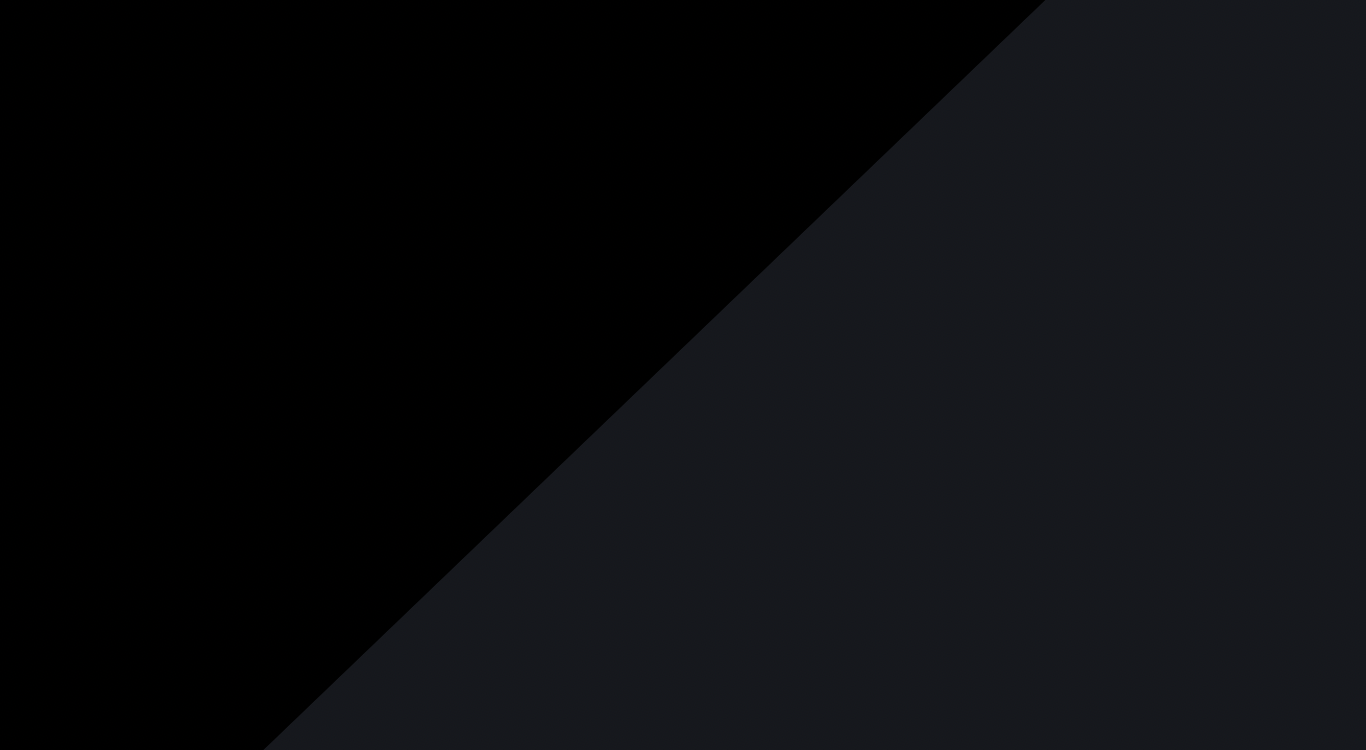
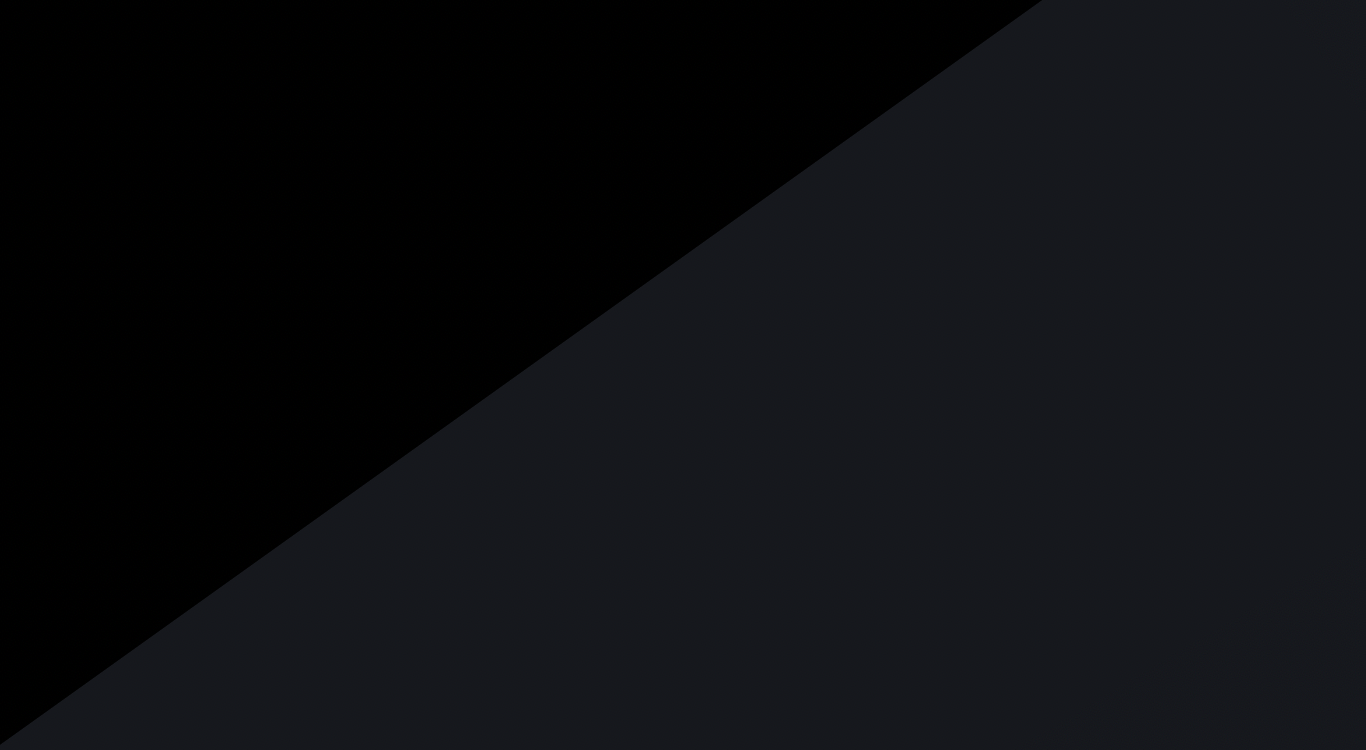
feat: footer ended

Changed region(s): [[0.0, 0.0307, 0.7379, 1.0], [0.7379, 0.0, 0.7687, 0.0307]]

diff --git a/styles/footer.css b/styles/footer.css
@@ -1,0 +1,97 @@
+footer {
+  background-color: var(--gray-500);
+  padding-bottom: 200px;
+
+  header {
+    padding-block: 128px 48px;
+
+    display: grid;
+    justify-items: center;
+
+    span {
+      font: var(--subtitle);
+      color: var(--blue);
+    }
+
+    h2 {
+      font: var(--title-md);
+      color: var(--gray-100);
+      padding-block: 8px;
+    }
+
+    p {
+      font: var(--text-md);
+    }
+  }
+
+  #contacts {
+    display: grid;
+    justify-content: center;
+    gap: 20px;
+
+    .contact-card {
+      display: flex;
+      align-items: center;
+      padding-inline: 20px;
+      gap: 12px;
+      background-color: var(--gray-400);
+      border-radius: 12px;
+      width: 400px;
+      height: 68px;
+      box-sizing: border-box;
+
+      #linkdin {
+        background-image: url('../assets/icons/LinkedinLogo.svg');
+        width: 28px;
+        height: 28px;
+      }
+
+      #github {
+        background-image: url('../assets/icons/GithubLogo.svg');
+        width: 28px;
+        height: 28px;
+      }
+
+      #mail {
+        background-image: url('../assets/icons/MailIcon.svg');
+        width: 28px;
+        height: 28px;
+      }
+
+      span {
+        margin-right: auto;
+        font: var(--text-md);
+      }
+
+      .arrow-up {
+        background-image: url('../assets/icons/ArrowUpRight.svg');
+        width: 20px;
+        height: 20px;
+      }
+    }
+
+    .contact-card:hover {
+      border: solid 2px var(--blue);
+
+      #linkdin {
+        background-image: url('../assets/icons/LinkedinLogoHover.svg');
+      }
+  
+      #github {
+        background-image: url('../assets/icons/GithubLogoHover.svg');
+      }
+  
+      #mail {
+        background-image: url('../assets/icons/MailIconHover.svg');
+      }
+  
+      .arrow-up {
+        background-image: url('../assets/icons/ArrowUpRightHover.svg');
+      }
+
+      span {
+        color: var(--blue);
+      }
+    }
+  }
+}

diff --git a/index.html b/index.html
@@ -49,14 +49,14 @@
 
       <div id="cards" class="grid gap-24">
         <div class="project">
-          <a href="https://github.com/PizarroCris/Level-Up-Real-Life">
+          <a href="https://github.com/PizarroCris/Level-Up-Real-Life" target="_blank">
             <img src="assets/images/levelup.png" alt="">
             <h3>Level UP in Real Life</h3>
             <p>Fullstack strategy game. Robust backend architecture with complex state management</p>
           </a>
         </div>
         <div class="project">
-          <a href="https://github.com/PizarroCris/Gamers_Oracle">
+          <a href="https://github.com/PizarroCris/Gamers_Oracle" target="_blank">
             <img src="assets/images/gamers-oracle.png" alt="">
             <h3>Gamer's Oracle - Real Time AI Assistant</h3>
             <p>
@@ -101,5 +101,33 @@
       </div>
     </section>
   </main>
+
+  <footer>
+    <header>
+      <span>Contact</span>
+      <h2>Did you like my work?</h2>
+      <p>Get in touch or follow my social media!</p>
+    </header>
+
+    <section id="contacts">
+      <a href="https://www.linkedin.com/in/cristiano-pizarro/" target="_blank" class="contact-card">
+        <div id="linkdin"></div>
+        <span>LinkedIn</span>
+        <div class="arrow-up"></div>
+      </a>
+
+      <a href="https://github.com/PizarroCris" target="_blank" class="contact-card">
+        <div id="github"></div>
+        <span>GitHub</span>
+        <div class="arrow-up"></div>
+      </a>
+
+      <a href="mailto:dev.cristianopizarro@gmail.com" target="_blank" class="contact-card">
+        <div id="mail"></div>
+        <span>E-Mail</span>
+        <div class="arrow-up"></div>
+      </a>
+    </section>
+  </footer>
 </body>
 </html>

diff --git a/styles/global.css b/styles/global.css
@@ -4,13 +4,9 @@
 }
 
 :root {
-  /* Main Colors */
-  --purple: #BB72E9;
+  /* Colors */
   --blue: #008C9E;
-  --green: #82BC4F;
-  --yellow: #EABD5F;
-
-  /* Base Colors */
+  
   --gray-100: #E2E4E9;
   --gray-200: #C0C4CE;
   --gray-300: #878EA1;

diff --git a/styles/sections.css b/styles/sections.css
@@ -66,7 +66,7 @@ section {
 }
 
 #services {
-  background-color: var(--gray-600);
+  background-color: #000;
   padding-bottom: 120px;
 
   #service-cards {

diff --git a/styles/index.css b/styles/index.css
@@ -2,3 +2,4 @@
 @import url(utility.css);
 @import url(header.css);
 @import url(sections.css);
+@import url(footer.css);
